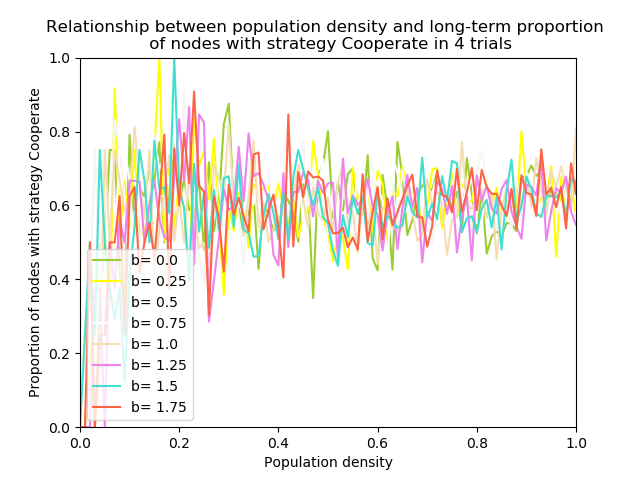
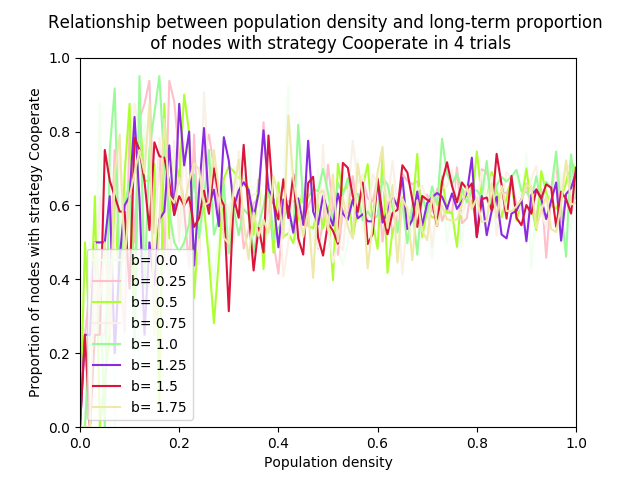
multiple dumbell

diff --git a/test_files/reproduction.py b/test_files/reproduction.py
@@ -82,6 +82,7 @@ def birth_death(G, strat_list, u, num_rep):
     old_strategies=[]
     reproduced_strategies=[]
     #print(reproduced_nodes)
+    inheritance = {}
     for i in reproduced_nodes:
         reproduced_strategy=G.node[i]['strategy']
         #set rep strat
@@ -89,7 +90,7 @@ def birth_death(G, strat_list, u, num_rep):
         old_strategy = G.node[j]['strategy']
 
         difference=G.node[i]['fitness']-G.node[j]['fitness']
-        if random.random()<=q(difference, .1, 3):
+        if random.random()<=q(difference, .1, 6):
             #i will replace j
             #now decide which strategy will be inherited!
             mistake_indicator = random.uniform(0, 1)
@@ -98,83 +99,24 @@ def birth_death(G, strat_list, u, num_rep):
                 mutation_list = [x for x in strat_list if x != reproduced_strategy]
                 if mutation_list == []:
                     #print("There cannot be mutations in this population.")
-                    G.node[j]['strategy'] = reproduced_strategy
+                    inheritance[j] = reproduced_strategy
                 else:
-                    G.node[j]['strategy'] = np.random.choice(mutation_list)
-                    reproduced_strategy = G.node[j]['strategy']
+                    inheritance[j] = np.random.choice(mutation_list)
+                    reproduced_strategy = inheritance[j]
                 #print("Node ", j, " now has strategy ", G.node[j]['strategy'])        
             else:
                 # there is not a mutation
-                G.node[j]['strategy'] = reproduced_strategy
+                inheritance[j] = reproduced_strategy
             # Node j has now just been born, so we set its fitness to 0
             G.node[j]['fitness'] = 0.5
             reproduced_strategies.append(reproduced_strategy)
             old_strategies.append(old_strategy)
+    #now we do all the accordingly replacements
+    for j in inheritance.keys():
+        print('yay!')
+        G.node[j]['strategy'] = inheritance[j]
+
     return [G, reproduced_strategies, old_strategies, reproduced_nodes]
-
-    '''
-    # Iterate through all nodes of the graph
-    # Note, i is a coordinate whose dimension depends on the dimension of the graph
-    current_place_in_sum = 0
-    prev_place_in_sum = 0
-    node_reproduced = False 
-    for i in nx.nodes(G):
-        current_place_in_sum += nx.get_node_attributes(G, 'fitness')[i]
-        #G.node[i]['fitness']
-        #print("Currently examining node ", i, " which has fitness ", G.node[i]['fitness'])
-        #print("Current place in the fitness sum is ", current_place_in_sum)
-        if prev_place_in_sum < cutoff < current_place_in_sum:
-            node_reproduced = True
-            #print("We have found a node to reproduce")
-            #print("        It is node ", i, " has fitness ", G.node[i]['fitness'], " and strategy ", G.node[i]['strategy'])
-            #This is the node that will reproduce
-            #so we now find a neighbor it can replace
-            reproduced_strategy = G.node[i]['strategy'] 
-            #print("Node ", i, " has been chosen to reproduce strategy ", reproduced_strategy)
-
-            #print("-----------------------------------")
-            neighbors = list(G.adj[i].keys())
-            #print("Neighbors are ", neighbors)
-            num_neighbors = len(neighbors)
-            k = random.randint(0, num_neighbors - 1)
-            j = neighbors[k]
-            old_strategy = G.node[j]['strategy']
-            # set the strategy of the node selected to die to the strategy of the node selected to reproduce
-            #print("Updating the strategy of node ", j, " from ", old_strategy, " to ", reproduced_strategy)
-                
-
-            mistake_indicator = random.uniform(0, 1)
-            if mistake_indicator < u:
-                # there is a mutation
-                #print("There has been a mutation!")
-                mutation_list = [x for x in strat_list if x != reproduced_strategy]
-                if mutation_list == []:
-                    #print("There cannot be mutations in this population.")
-                    G.node[j]['strategy'] = reproduced_strategy
-                else:
-                    G.node[j]['strategy'] = np.random.choice(mutation_list)
-                #print("Node ", j, " now has strategy ", G.node[j]['strategy'])
-                     
-            else:
-                # there is not a mutation
-                G.node[j]['strategy'] = reproduced_strategy
-
-            # Node j has now just been born, so we set its fitness to 0
-            G.node[j]['fitness'] = 0.5
-            #print("------------------------------------------------------------------------")
-            #print("reproduction has finished for this round")
-            # no need to examine any more nodes for reproducibility, so we break our for loop
-            break
-        prev_place_in_sum = current_place_in_sum
-
-    # Creates picture of graph 
-    #nx.draw(G,with_labels=True)
-    #plt.show()
-    if node_reproduced:
-        return [G, G.node[j]['strategy'], old_strategy]
-    else:
-        return [G, None, None]
-    '''
 
 def death_birth(G, strat_list, u):
     replaced=random.choice(list(G.nodes()))

diff --git a/test_files/timestep-control-1.py b/test_files/timestep-control-1.py
@@ -370,16 +370,16 @@ def plot_many_trials(parameters, graph_type, u, t, number_trials, the_strat, num
             # Remove lattice nodes until only rho percent remain
             sparse_graph = graph.copy()
             for n in graph.nodes():
-                indicator = random.uniform(0,1)
-                if indicator > rho:
+                #indicator is random.uniform(0,1)
+                if random.uniform(0,1) > rho:
                     if nx.number_of_nodes(sparse_graph) != 1:
                         #this node should be deleted
                         sparse_graph.remove_node(n)
             graph = sparse_graph
 
 
-        #init.label_birth_death(graph, strat_list, start_prop_cooperators)
-        init.label_BD_according_to_one_dim(graph, strat_list, parameters[1])        
+        init.label_birth_death(graph, strat_list, start_prop_cooperators)
+        #init.label_BD_according_to_one_dim(graph, strat_list, parameters[1])        
 
         this_game=game(graph, update_name, t, u, d, plotting, show_graph, saving, color_fitness)
 
@@ -584,27 +584,27 @@ def plot_many_tests(time, strat_dict, saving, graph_type, t, update_name, n, u, 
 strat_list = ['Cooperate', 'Defect']
 u = .4
 
-b = 1
+b = 3
 c = 1
 delta = .2
 
 n = 5
 m = 5
 d = 6
-graph_type = 'triangular_lattice'
+graph_type = 'dumbell_multiple'
 
 update_name = 'BD'
 #list of parameters that will be used to build graph
 parameters = [n,m]
 
-t = 10
+t = 100
 
 number_trials=4
 
 n_lattice = 50
 m_lattice = 50
 
-start_prop_cooperators = .5
+start_prop_cooperators = .1
 
 #Number of nodes to reproduce at each timestep 
 num_rep = 5
@@ -667,12 +667,13 @@ b=1
 max_b = 2
 
 #prop_increments = np.arange(.3, 1.1, 0.1)
-start_prop_cooperators=.6
+#start_prop_cooperators=.6
 #for start_prop_cooperators in prop_increments:
-plot_lattice_density_and_payoff(parameters, graph_type, u, t, max_b, 'Cooperate', update_name = 'BD', \
-    plotting = True, show_graph = False, saving = True, color_fitness = True)
+#plot_lattice_density_and_payoff(parameters, graph_type, u, t, max_b, 'Cooperate', update_name = 'BD', \
+#    plotting = True, show_graph = False, saving = True, color_fitness = True)
 
-#plot_many_trials(parameters, graph_type, u, t, number_trials, 'Cooperate', num_rep, 'BD', plotting=True, show_graph=True, saving=False, color_fitness=True)
+parameters=[7,7,7]
+plot_many_trials(parameters, graph_type, u, t, number_trials, 'Cooperate', num_rep, None, 'BD', plotting=True, show_graph=True, saving=False, color_fitness=True)
 
 
 

diff --git a/test_files/display.py b/test_files/display.py
@@ -170,7 +170,7 @@ def color_fitness_and_draw_graph(G, pos, reproducing_nodes=None):
     plt.colorbar(sm)
     plt.show()
 
-    pause(.1)
+    pause(.3)
 
 
     plt.gcf().clear()
@@ -199,3 +199,8 @@ def color_fitness_and_draw_graph(G, pos, reproducing_nodes=None):
 
     return G
 '''
+
+#graph = init.generate_graph([5,4,2], 'dumbell_multiple')
+#init.label_birth_death(graph, ['Cooperate','Defect'], 0.5)
+#color_and_draw_graph(graph)
+#color_fitness_and_draw_graph(graph, nx.spring_layout(graph))

diff --git a/test_files/graph_initialization.py b/test_files/graph_initialization.py
@@ -167,7 +167,6 @@ def generate_dumbell_multiple_cliques(m, N, L):
   for n in G.nodes():
     G.node[n]['coord']=n
   G=nx.convert_node_labels_to_integers(G)
-
   return G
 
 def generate_weighted(n, type= 'random', d=0, m=0, periodic=False, with_positions=True, create_using=None):
@@ -233,7 +232,6 @@ def generate_rich_club(size_club, size_periphery, prob_rp=1, prob_rr=1, prob_pp=
       if random.random()<prob_pp:
         graph.add_edge(m,M)
   return graph
-
 
 
 '''---------------------
